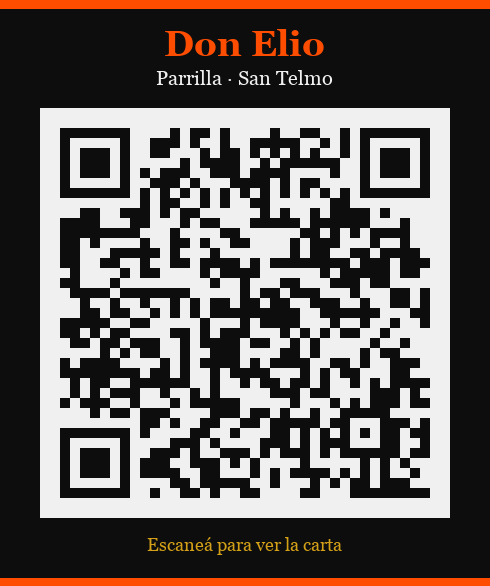
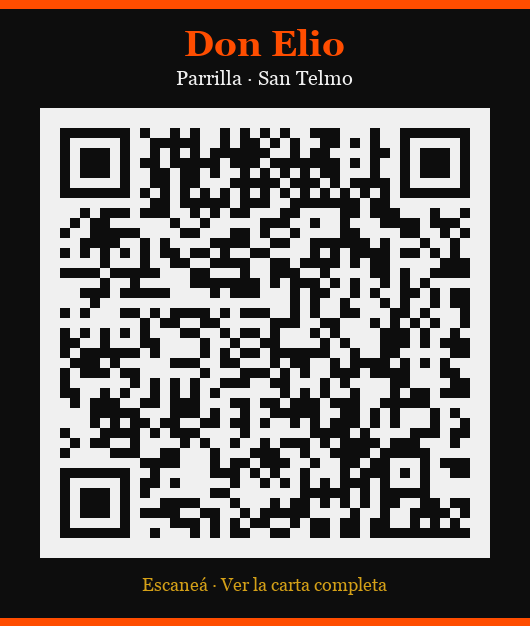
Carta como página independiente y QR apuntando a ella
- carta.html: página standalone con solo la carta (sin hero, sin promo, sin nosotros)
- QR actualizado para apuntar a /carta.html en vez de la web principal

diff --git a/carta.html b/carta.html
@@ -1,0 +1,198 @@
+<!DOCTYPE html>
+<html lang="es">
+<head>
+  <meta charset="UTF-8" />
+  <meta name="viewport" content="width=device-width, initial-scale=1.0" />
+  <title>La Carta — Don Elio · Parrilla San Telmo</title>
+  <meta name="description" content="Carta completa de Don Elio. Parrilla, postres, vinos y tragos. Chacabuco 454, San Telmo." />
+  <script src="https://cdn.tailwindcss.com"></script>
+  <link rel="preconnect" href="https://fonts.googleapis.com" />
+  <link rel="preconnect" href="https://fonts.gstatic.com" crossorigin />
+  <link href="https://fonts.googleapis.com/css2?family=Playfair+Display:ital,wght@0,700;0,900;1,700&family=Inter:wght@400;500;600&display=swap" rel="stylesheet" />
+
+  <script>
+    tailwind.config = {
+      theme: {
+        extend: {
+          colors: { ember: '#FF4D00', charcoal: '#0D0D0D', ash: '#1A1A1A', smoke: '#2A2A2A', gold: '#D4A017' },
+          fontFamily: { display: ['"Playfair Display"', 'serif'], body: ['Inter', 'sans-serif'] },
+        },
+      },
+    };
+  </script>
+
+  <style>
+    html { scroll-behavior: smooth; }
+    body { background-color: #0D0D0D; color: #F0F0F0; font-family: 'Inter', sans-serif; font-size: 15px; }
+    .fileteado { font-family: 'Playfair Display', serif; font-style: italic; letter-spacing: -0.02em; line-height: 1.05; }
+    .ember-glow:hover { box-shadow: 0 0 18px rgba(255,77,0,0.4); }
+    .reveal { opacity: 0; transform: translateY(18px); transition: opacity 0.5s ease, transform 0.5s ease; }
+    .reveal.visible { opacity: 1; transform: translateY(0); }
+    ::-webkit-scrollbar { width: 5px; }
+    ::-webkit-scrollbar-track { background: #1A1A1A; }
+    ::-webkit-scrollbar-thumb { background: #FF4D00; border-radius: 3px; }
+    .section-divider { height: 1px; background: linear-gradient(to right, transparent, #FF4D00, transparent); margin: 1.5rem 0; }
+  </style>
+</head>
+<body class="antialiased">
+
+<!-- WHATSAPP FLOTANTE -->
+<a id="float-wa" href="#"
+   class="fixed bottom-6 right-6 z-40 flex items-center gap-2 bg-green-500 hover:bg-green-400 text-white font-semibold text-sm px-4 py-3 rounded-full shadow-xl transition-all"
+   style="box-shadow: 0 0 20px rgba(34,197,94,0.4)">
+  <svg class="w-5 h-5 shrink-0" fill="currentColor" viewBox="0 0 24 24"><path d="M17.472 14.382c-.297-.149-1.758-.867-2.03-.967-.273-.099-.471-.148-.67.15-.197.297-.767.966-.94 1.164-.173.199-.347.223-.644.075-.297-.15-1.255-.463-2.39-1.475-.883-.788-1.48-1.761-1.653-2.059-.173-.297-.018-.458.13-.606.134-.133.298-.347.446-.52.149-.174.198-.298.298-.497.099-.198.05-.371-.025-.52-.075-.149-.669-1.612-.916-2.207-.242-.579-.487-.5-.669-.51-.173-.008-.371-.01-.57-.01-.198 0-.52.074-.792.372-.272.297-1.04 1.016-1.04 2.479 0 1.462 1.065 2.875 1.213 3.074.149.198 2.096 3.2 5.077 4.487.709.306 1.262.489 1.694.625.712.227 1.36.195 1.871.118.571-.085 1.758-.719 2.006-1.413.248-.694.248-1.289.173-1.413-.074-.124-.272-.198-.57-.347m-5.421 7.403h-.004a9.87 9.87 0 01-5.031-1.378l-.361-.214-3.741.982.998-3.648-.235-.374a9.86 9.86 0 01-1.51-5.26c.001-5.45 4.436-9.884 9.888-9.884 2.64 0 5.122 1.03 6.988 2.898a9.825 9.825 0 012.893 6.994c-.003 5.45-4.437 9.884-9.885 9.884m8.413-18.297A11.815 11.815 0 0012.05 0C5.495 0 .16 5.335.157 11.892c0 2.096.547 4.142 1.588 5.945L.057 24l6.305-1.654a11.882 11.882 0 005.683 1.448h.005c6.554 0 11.89-5.335 11.893-11.893a11.821 11.821 0 00-3.48-8.413z"/></svg>
+  <span>Hacer pedido</span>
+</a>
+
+<!-- HEADER -->
+<header class="pt-10 pb-6 px-4 text-center border-b border-smoke">
+  <div class="text-3xl mb-1">🔥</div>
+  <h1 class="fileteado text-4xl sm:text-5xl text-ember mb-1">Don Elio</h1>
+  <p class="text-gray-100 text-sm tracking-widest uppercase font-semibold mb-1">La Carta</p>
+  <p class="text-gray-300 text-xs">Parrilla · Chacabuco 454 · San Telmo · Lun–Vie 12:30–16 hs</p>
+  <div class="section-divider max-w-xs mx-auto mt-4"></div>
+  <p class="text-gray-300 text-xs">Tocá cualquier plato para pedirlo por WhatsApp</p>
+</header>
+
+<!-- CARTA -->
+<main class="max-w-3xl mx-auto px-4 py-8 space-y-4">
+
+  <!-- Parrilla -->
+  <div class="reveal bg-ash border border-smoke rounded-xl p-5">
+    <h2 class="text-ember font-bold text-xs tracking-widest uppercase mb-1">🥩 Parrilla</h2>
+    <p class="text-gray-300 text-xs italic mb-3">Todos incluyen guarnición · plato o sándwich</p>
+    <ul class="space-y-2 text-sm">
+      <li class="menu-item flex justify-between cursor-pointer hover:text-ember transition-colors" data-dish="Chorizo" data-price="$9.000"><span>Chorizo</span><span class="text-gray-200">$9.000</span></li>
+      <li class="menu-item flex justify-between cursor-pointer hover:text-ember transition-colors" data-dish="Pechuga" data-price="$11.000"><span>Pechuga</span><span class="text-gray-200">$11.000</span></li>
+      <li class="menu-item flex justify-between cursor-pointer hover:text-ember transition-colors" data-dish="Bondiola" data-price="$11.000"><span>Bondiola</span><span class="text-gray-200">$11.000</span></li>
+      <li class="menu-item flex justify-between cursor-pointer hover:text-ember transition-colors" data-dish="Cuadril" data-price="$15.000"><span>Cuadril</span><span class="text-gray-200">$15.000</span></li>
+      <li class="menu-item flex justify-between cursor-pointer hover:text-ember transition-colors" data-dish="Asado Banderita" data-price="$15.000"><span>Asado Banderita</span><span class="text-gray-200">$15.000</span></li>
+      <li class="menu-item flex justify-between cursor-pointer hover:text-ember transition-colors" data-dish="Vacío" data-price="$17.000"><span>Vacío</span><span class="text-gray-200">$17.000</span></li>
+      <li class="menu-item flex justify-between cursor-pointer hover:text-ember transition-colors" data-dish="Parrillada" data-price="$35.000"><span>Parrillada</span><span class="text-gray-200">$35.000</span></li>
+      <li class="menu-item flex justify-between cursor-pointer hover:text-ember transition-colors" data-dish="Provoleta" data-price="Consultar"><span>Provoleta</span><span class="text-ember text-xs font-semibold">Consultar</span></li>
+    </ul>
+  </div>
+
+  <!-- Más... -->
+  <div class="reveal bg-ash border border-smoke rounded-xl p-5">
+    <h2 class="text-ember font-bold text-xs tracking-widest uppercase mb-3">🍽 Más...</h2>
+    <ul class="space-y-2 text-sm">
+      <li class="menu-item flex justify-between cursor-pointer hover:text-ember transition-colors" data-dish="Milanesa" data-price="$13.000"><span>Milanesa</span><span class="text-gray-200">$13.000</span></li>
+      <li class="menu-item flex justify-between items-start cursor-pointer hover:text-ember transition-colors" data-dish="Sopa Crema Casera" data-price="$5.000">
+        <span class="flex flex-col"><span>Sopa Crema Casera</span><span class="text-gray-300 text-xs">Zapallo, arvejas o zanahoria curry</span></span>
+        <span class="text-gray-200 shrink-0 ml-2">$5.000</span>
+      </li>
+      <li class="menu-item flex justify-between cursor-pointer hover:text-ember transition-colors" data-dish="Rabas" data-price="Consultar"><span>Rabas</span><span class="text-ember text-xs font-semibold">Consultar</span></li>
+      <li class="menu-item flex justify-between cursor-pointer hover:text-ember transition-colors" data-dish="Pastel de Carne" data-price="Consultar"><span>Pastel de Carne</span><span class="text-ember text-xs font-semibold">Consultar</span></li>
+      <li class="menu-item flex justify-between cursor-pointer hover:text-ember transition-colors" data-dish="Guiso de Lentejas" data-price="Consultar"><span>Guiso de Lentejas</span><span class="text-ember text-xs font-semibold">Consultar</span></li>
+      <li class="menu-item flex justify-between items-start cursor-pointer hover:text-ember transition-colors" data-dish="Tallarines / Ravioles" data-price="Consultar">
+        <span class="flex flex-col"><span>Tallarines / Ravioles</span><span class="text-gray-300 text-xs">Filetto, crema o manteca de hierbas</span></span>
+        <span class="text-ember text-xs font-semibold shrink-0 ml-2">Consultar</span>
+      </li>
+    </ul>
+  </div>
+
+  <!-- Para Acompañar + Postres -->
+  <div class="reveal bg-ash border border-smoke rounded-xl p-5">
+    <h2 class="text-ember font-bold text-xs tracking-widest uppercase mb-3">🍟 Para Acompañar</h2>
+    <ul class="space-y-2 text-sm mb-4">
+      <li class="menu-item flex justify-between cursor-pointer hover:text-ember transition-colors" data-dish="Ensalada" data-price="$3.500"><span>Ensalada</span><span class="text-gray-200">$3.500</span></li>
+      <li class="menu-item flex justify-between cursor-pointer hover:text-ember transition-colors" data-dish="Papas Fritas" data-price="$4.000"><span>Papas Fritas</span><span class="text-gray-200">$4.000</span></li>
+      <li class="menu-item flex justify-between cursor-pointer hover:text-ember transition-colors" data-dish="Puré / Papas Rotas al Romero" data-price="$4.000"><span>Puré / Papas al Romero</span><span class="text-gray-200">$4.000</span></li>
+      <li class="menu-item flex justify-between cursor-pointer hover:text-ember transition-colors" data-dish="Provoleta (guarnición)" data-price="Consultar"><span>Provoleta</span><span class="text-ember text-xs font-semibold">Consultar</span></li>
+    </ul>
+    <div class="border-t border-smoke/60 pt-3">
+      <h2 class="text-ember font-bold text-xs tracking-widest uppercase mb-3">🍮 Postres</h2>
+      <ul class="space-y-2 text-sm">
+        <li class="menu-item flex justify-between cursor-pointer hover:text-ember transition-colors" data-dish="Tiramisú" data-price="$6.000"><span>Tiramisú</span><span class="text-gray-200">$6.000</span></li>
+        <li class="menu-item flex justify-between cursor-pointer hover:text-ember transition-colors" data-dish="Bombón Escocés" data-price="$5.000"><span>Bombón Escocés</span><span class="text-gray-200">$5.000</span></li>
+        <li class="menu-item flex justify-between cursor-pointer hover:text-ember transition-colors" data-dish="Budín de Pan" data-price="$4.000"><span>Budín de Pan</span><span class="text-gray-200">$4.000</span></li>
+        <li class="menu-item flex justify-between cursor-pointer hover:text-ember transition-colors" data-dish="Flan" data-price="$4.000"><span>Flan</span><span class="text-gray-200">$4.000</span></li>
+        <li class="menu-item flex justify-between cursor-pointer hover:text-ember transition-colors" data-dish="Arroz con Leche" data-price="$4.000"><span>Arroz con Leche</span><span class="text-gray-200">$4.000</span></li>
+        <li class="menu-item flex justify-between cursor-pointer hover:text-ember transition-colors" data-dish="Queso y Dulce" data-price="$4.000"><span>Queso y Dulce</span><span class="text-gray-200">$4.000</span></li>
+        <li class="menu-item flex justify-between cursor-pointer hover:text-ember transition-colors" data-dish="Café" data-price="$3.000–$4.000"><span>Café</span><span class="text-gray-200">$3–4k</span></li>
+        <li class="menu-item flex justify-between cursor-pointer hover:text-ember transition-colors" data-dish="Té" data-price="$4.000"><span>Té</span><span class="text-gray-200">$4.000</span></li>
+      </ul>
+    </div>
+  </div>
+
+  <!-- Bebidas -->
+  <div class="reveal bg-ash border border-smoke rounded-xl p-5">
+    <h2 class="text-ember font-bold text-xs tracking-widest uppercase mb-3">💧🍺 Sin alcohol</h2>
+    <ul class="space-y-2 text-sm mb-4">
+      <li class="menu-item flex justify-between cursor-pointer hover:text-ember transition-colors" data-dish="Agua 500cc" data-price="$3.800"><span>Agua 500cc</span><span class="text-gray-200">$3.800</span></li>
+      <li class="menu-item flex justify-between cursor-pointer hover:text-ember transition-colors" data-dish="Agua Saborizada" data-price="$4.000"><span>Agua Saborizada</span><span class="text-gray-200">$4.000</span></li>
+      <li class="menu-item flex justify-between cursor-pointer hover:text-ember transition-colors" data-dish="Gaseosa 600cc" data-price="$4.000"><span>Gaseosa 600cc</span><span class="text-gray-200">$4.000</span></li>
+      <li class="menu-item flex justify-between cursor-pointer hover:text-ember transition-colors" data-dish="361 Lata" data-price="$4.000"><span>361 Lata</span><span class="text-gray-200">$4.000</span></li>
+      <li class="menu-item flex justify-between cursor-pointer hover:text-ember transition-colors" data-dish="Heineken 473ml" data-price="$7.000"><span>Heineken 473ml</span><span class="text-gray-200">$7.000</span></li>
+      <li class="menu-item flex justify-between cursor-pointer hover:text-ember transition-colors" data-dish="Quilmes Cristal / Stout / Stella" data-price="Consultar"><span>Quilmes Cristal / Stout / Stella</span><span class="text-ember text-xs font-semibold">Consultar</span></li>
+    </ul>
+    <div class="border-t border-smoke/60 pt-3">
+      <h2 class="text-ember font-bold text-xs tracking-widest uppercase mb-3">🍷 Vinos</h2>
+      <ul class="space-y-2 text-sm">
+        <li class="menu-item flex justify-between cursor-pointer hover:text-ember transition-colors" data-dish="Familia Gascón Cabernet Sauvignon" data-price="$12.000"><span>Familia Gascón Cab. Sauv.</span><span class="text-gray-200">$12.000</span></li>
+        <li class="menu-item flex justify-between cursor-pointer hover:text-ember transition-colors" data-dish="Andares Malbec / Rosé" data-price="$12.000"><span>Andares Malbec / Rosé</span><span class="text-gray-200">$12.000</span></li>
+        <li class="menu-item flex justify-between cursor-pointer hover:text-ember transition-colors" data-dish="Privado Reserva" data-price="$12.000"><span>Privado Reserva</span><span class="text-gray-200">$12.000</span></li>
+        <li class="menu-item flex justify-between cursor-pointer hover:text-ember transition-colors" data-dish="Trumpeter Malbec" data-price="$14.000"><span>Trumpeter Malbec</span><span class="text-gray-200">$14.000</span></li>
+        <li class="menu-item flex justify-between cursor-pointer hover:text-ember transition-colors" data-dish="Escorihuela Gascón Cab. / Malbec" data-price="$18.000"><span>Escorihuela Gascón</span><span class="text-gray-200">$18.000</span></li>
+        <li class="menu-item flex justify-between cursor-pointer hover:text-ember transition-colors" data-dish="Escorihuela Gascón 375ml" data-price="$7.000"><span>Escorihuela Gascón 375ml</span><span class="text-gray-200">$7.000</span></li>
+      </ul>
+    </div>
+  </div>
+
+  <!-- Aperitivos & Tragos -->
+  <div class="reveal bg-ash border border-smoke rounded-xl p-5">
+    <h2 class="text-ember font-bold text-xs tracking-widest uppercase mb-3">🥂 Aperitivos &amp; Tragos</h2>
+    <ul class="grid grid-cols-2 sm:grid-cols-3 gap-x-6 gap-y-2 text-sm">
+      <li class="menu-item flex justify-between cursor-pointer hover:text-ember transition-colors" data-dish="Aperol" data-price="Consultar"><span>Aperol</span><span class="text-ember text-xs font-semibold">Consultar</span></li>
+      <li class="menu-item flex justify-between cursor-pointer hover:text-ember transition-colors" data-dish="Campari" data-price="Consultar"><span>Campari</span><span class="text-ember text-xs font-semibold">Consultar</span></li>
+      <li class="menu-item flex justify-between cursor-pointer hover:text-ember transition-colors" data-dish="Fernet (2 medidas)" data-price="Consultar"><span>Fernet ×2</span><span class="text-ember text-xs font-semibold">Consultar</span></li>
+      <li class="menu-item flex justify-between cursor-pointer hover:text-ember transition-colors" data-dish="Ferroviario" data-price="Consultar"><span>Ferroviario</span><span class="text-ember text-xs font-semibold">Consultar</span></li>
+      <li class="menu-item flex justify-between cursor-pointer hover:text-ember transition-colors" data-dish="Vermut" data-price="Consultar"><span>Vermut</span><span class="text-ember text-xs font-semibold">Consultar</span></li>
+      <li class="menu-item flex justify-between cursor-pointer hover:text-ember transition-colors" data-dish="Cuba Libre" data-price="Consultar"><span>Cuba Libre</span><span class="text-ember text-xs font-semibold">Consultar</span></li>
+      <li class="menu-item flex justify-between cursor-pointer hover:text-ember transition-colors" data-dish="Daiquiri" data-price="Consultar"><span>Daiquiri</span><span class="text-ember text-xs font-semibold">Consultar</span></li>
+      <li class="menu-item flex justify-between cursor-pointer hover:text-ember transition-colors" data-dish="Whisky Jack Daniel's" data-price="$14.000"><span>Jack Daniel's</span><span class="text-gray-200">$14.000</span></li>
+      <li class="menu-item flex justify-between cursor-pointer hover:text-ember transition-colors" data-dish="Whisky Johnnie Walker Red Label" data-price="$12.000"><span>Johnnie Walker Red</span><span class="text-gray-200">$12.000</span></li>
+    </ul>
+  </div>
+
+</main>
+
+<!-- FOOTER -->
+<footer class="border-t border-smoke py-8 px-4 text-center mt-4">
+  <div class="fileteado text-ember text-xl mb-1">Don Elio</div>
+  <p class="text-gray-300 text-xs mb-3">Parrilla auténtica · Chacabuco 454 · San Telmo · CABA</p>
+  <a href="https://maps.google.com/?q=Chacabuco+454+San+Telmo+Buenos+Aires" target="_blank"
+     class="inline-flex items-center gap-1 text-xs text-gray-300 hover:text-ember transition-colors mb-4">
+    📍 Ver en Google Maps
+  </a>
+  <br/>
+  <a href="https://donelio-santelmo.github.io/" class="text-xs text-gray-400 hover:text-ember transition-colors">
+    ← Ver página completa
+  </a>
+  <p class="text-gray-500 text-xs mt-4">© 2026 Don Elio · Hecho con 🔥 en San Telmo</p>
+</footer>
+
+<script>
+  const WA_NUMBER = '5491161162391';
+
+  function waLink(msg) {
+    return `https://wa.me/${WA_NUMBER}?text=${encodeURIComponent(msg)}`;
+  }
+
+  document.getElementById('float-wa').href = waLink('Hola Don Elio! Quiero hacer un pedido.');
+
+  document.querySelectorAll('.menu-item').forEach(item => {
+    item.addEventListener('click', () => {
+      window.open(waLink(`Hola Don Elio! Me gustaría pedir: ${item.dataset.dish} (${item.dataset.price}). ¿Tienen lugar?`), '_blank');
+    });
+  });
+
+  const obs = new IntersectionObserver(
+    entries => entries.forEach(e => { if (e.isIntersecting) e.target.classList.add('visible'); }),
+    { threshold: 0.08 }
+  );
+  document.querySelectorAll('.reveal').forEach(el => obs.observe(el));
+</script>
+</body>
+</html>

diff --git a/generar_qr.py b/generar_qr.py
@@ -2,7 +2,7 @@ import qrcode
 from PIL import Image, ImageDraw, ImageFont
 import os
 
-URL    = "https://donelio-santelmo.github.io/"
+URL    = "https://donelio-santelmo.github.io/carta.html"
 EMBER  = (255, 77, 0)
 DARK   = (13, 13, 13)
 WHITE  = (240, 240, 240)
@@ -47,7 +47,7 @@ except OSError:
 
 title = "Don Elio"
 sub   = "Parrilla · San Telmo"
-footer_text = "Escaneá para ver la carta"
+footer_text = "Escaneá · Ver la carta completa"
 
 def centered_x(text, font):
     bbox = draw.textbbox((0, 0), text, font=font)
